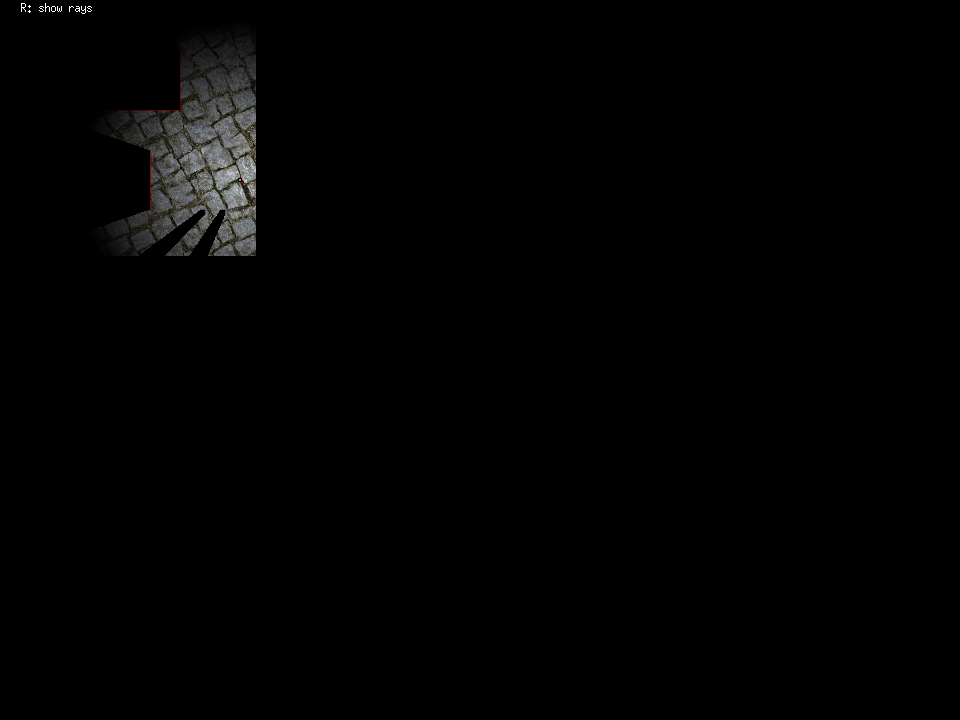
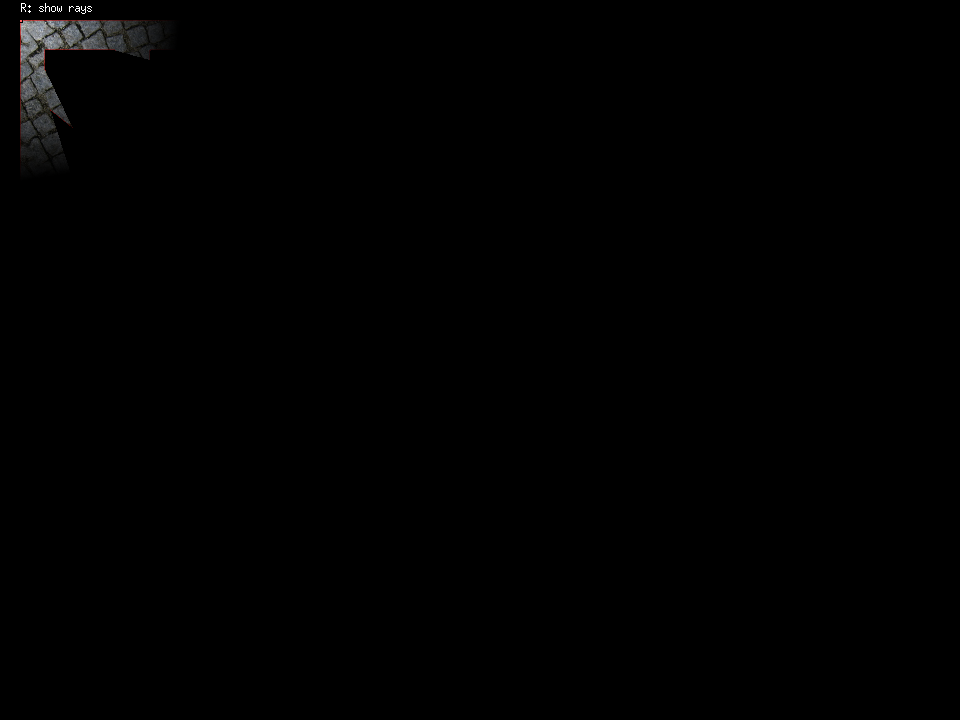
fix: 位置調整する

Changed region(s): [[0.0938, 0.0611, 0.2812, 0.3667], [0.0, 0.0306, 0.1875, 0.2139]]

diff --git a/lib/states/rayfield.go b/lib/states/rayfield.go
@@ -22,8 +22,11 @@ func (st *RayFieldState) OnPause(world w.World) {}
 func (st *RayFieldState) OnResume(world w.World) {}
 
 func (st *RayFieldState) OnStart(world w.World) {
-	st.Game.Px = world.Resources.ScreenDimensions.Width / 4
-	st.Game.Py = world.Resources.ScreenDimensions.Height / 4
+	// 画像に数バイトの誤差が出て、VRTで失敗しているようなので
+	// world.Resources.ScreenDimensions.Width / 4
+	// world.Resources.ScreenDimensions.Height / 4
+	st.Game.Px = 20
+	st.Game.Py = 20
 	st.Game.ScreenWidth = world.Resources.ScreenDimensions.Width
 	st.Game.ScreenHeight = world.Resources.ScreenDimensions.Height
 	st.Game.Prepare()
